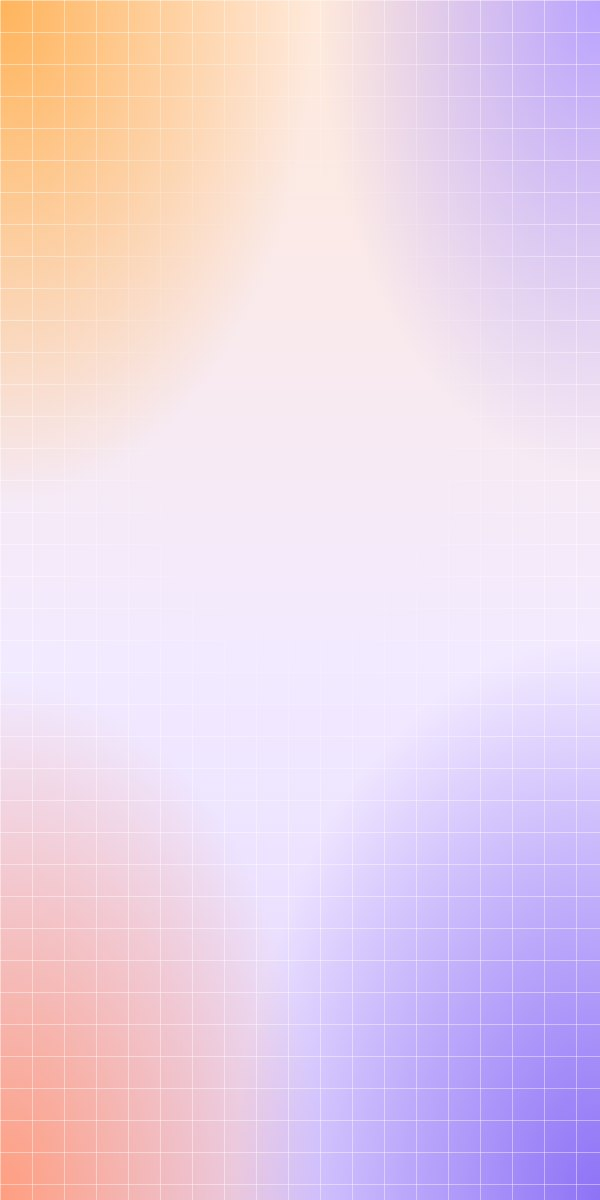
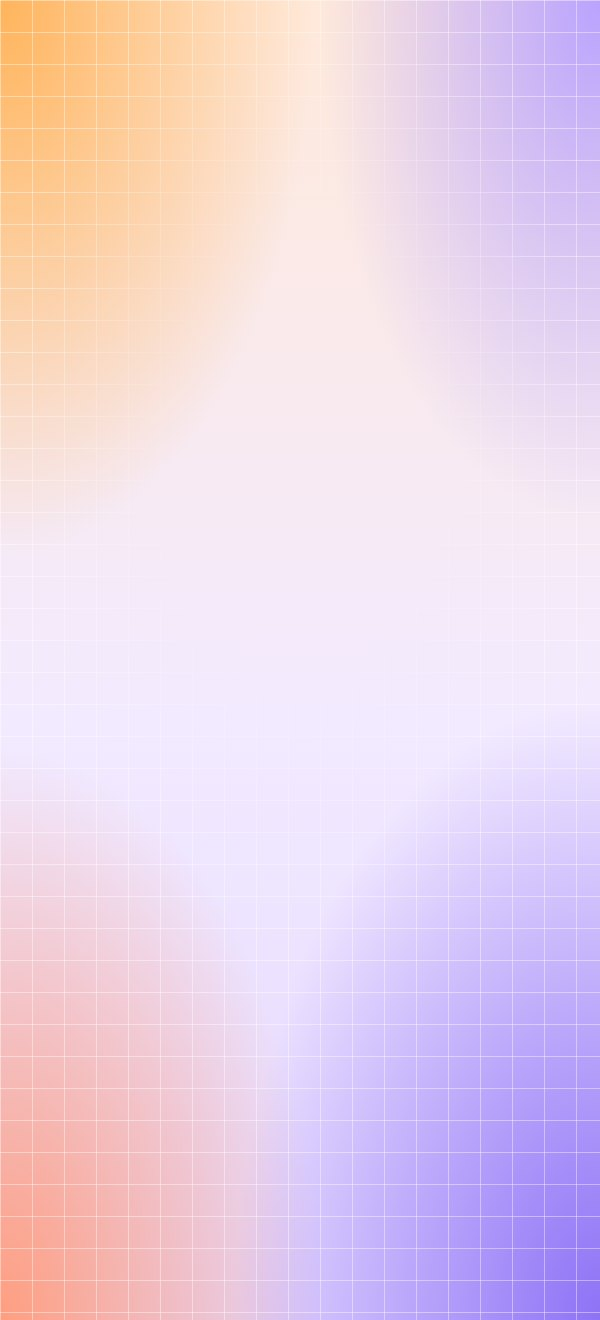
Newsletter : fond de tête rallongé ; page : modes sur plaque blanche
- Newsletter : le bandeau de tête mesure 1 228 px depuis l'ajout de la
  mention « 5 licences offertes », mais son fond n'en faisait que 1 200 :
  la couleur de repli formait une bande sous les trois parcours. Fond
  porté à 1 320 px (et le rectangle VML d'Outlook avec).
- Page organismes : la section « Trois modes pour s'entraîner » est posée
  sur une plaque blanche, ses cartes claires en lilas pâle comme dans la
  carte blanche de la newsletter. Le pied de l'écran d'examen reste sur
  une ligne jusqu'à 360 px.

Claude-Session: https://claude.ai/code/session_01FeZWDqfAndBDqFz8uAYmmt

Changed region(s): [[0.78, 0.9867, 1.0, 1.0]]

diff --git a/travaux/page-civicap/index.html b/travaux/page-civicap/index.html
@@ -217,7 +217,9 @@ h1 em,h2 em{font-family:var(--serif);font-style:italic;font-weight:400;font-size
 .paiement{margin-top:11px;display:flex;justify-content:center;gap:14px;font:500 11px/1 var(--corps);color:var(--pale)}
 .paiement span{display:inline-flex;align-items:center;gap:5px}
 
-/* ---------- les trois modes ---------- */
+/* ---------- les trois modes, sur une plaque blanche ---------- */
+.plaque{border-radius:36px;background:#fff;padding:clamp(32px,5.5vw,72px) clamp(16px,4.5vw,64px);box-shadow:0 40px 90px -60px rgba(46,16,101,.45)}
+.plaque .b:not(.b-grand){background:#F7F5FC;border-color:transparent;box-shadow:none}
 .modes-tete{display:grid;grid-template-columns:minmax(0,1fr) minmax(0,1.05fr);gap:clamp(32px,5vw,64px);align-items:center}
 .modes-tete .titre-2{margin-top:18px}
 .modes-tete p{margin-top:20px;max-width:460px;font-size:18px;color:var(--texte)}
@@ -250,8 +252,8 @@ h1 em,h2 em{font-family:var(--serif);font-style:italic;font-weight:400;font-size
 .opt.sel{border-color:#C4B5FD;background:#FAF7FF;color:var(--ink)}
 .opt.sel .rad{border:4.5px solid var(--violet-2)}
 .exam-pied{display:flex;align-items:center;justify-content:space-between;gap:10px;padding:14px 16px 16px}
-.drap{display:inline-flex;align-items:center;gap:7px;padding:8px 13px 8px 10px;border-radius:999px;border:1px solid #F5E2A8;background:#FFFBEB;color:#78350F;font:600 12px/1 var(--corps)}
-.suivant{display:inline-flex;align-items:center;gap:6px;color:var(--violet);font:600 12.5px/1 var(--corps)}
+.drap{display:inline-flex;align-items:center;gap:7px;padding:8px 13px 8px 10px;white-space:nowrap;border-radius:999px;border:1px solid #F5E2A8;background:#FFFBEB;color:#78350F;font:600 12px/1 var(--corps)}
+.suivant{display:inline-flex;align-items:center;gap:6px;color:var(--violet);font:600 12.5px/1 var(--corps);white-space:nowrap}
 .choix{margin-top:10px;display:grid;grid-template-columns:repeat(3,1fr);gap:8px}
 .choix span{display:grid;place-items:center;height:64px;border-radius:14px;border:1px solid #E9E5F2;color:var(--doux);font:600 26px/1 var(--sans);letter-spacing:-.03em}
 .choix .on{border-color:var(--violet-2);background:#FAF7FF;color:var(--violet);box-shadow:0 0 0 3px rgba(124,58,237,.12)}
@@ -382,11 +384,14 @@ h1 em,h2 em{font-family:var(--serif);font-style:italic;font-weight:400;font-size
   .resultat{left:18px;right:auto}
   .ln{grid-template-columns:minmax(0,1fr) minmax(0,1.25fr) auto;column-gap:10px}
   .st{padding:5px 8px;font-size:10.5px}
+  .exam-pied{padding:12px 12px 14px}
+  .drap{padding:7px 10px 7px 8px;font-size:11.5px}
+  .suivant{font-size:12px}
   .chiffre{padding:16px 12px 15px;border-radius:18px}
   .chiffre .u{font-size:9.5px;letter-spacing:.07em}
   .tuiles{grid-template-columns:minmax(0,1fr)}
   .tuiles li,.tuiles li:nth-child(n+4){grid-column:auto;flex-direction:row;align-items:center;gap:14px;padding:14px 16px}
-  .bande,.nuit{border-radius:28px}
+  .bande,.nuit,.plaque{border-radius:28px}
   .peines li{grid-template-columns:44px minmax(0,1fr);gap:14px;padding:18px}
   .peines .no{height:44px;border-radius:13px}
   .visuel{min-height:0;padding:28px 18px}
@@ -563,6 +568,7 @@ h1 em,h2 em{font-family:var(--serif);font-style:italic;font-weight:400;font-size
 
   <section class="section" id="modes">
     <div class="wrap">
+      <div class="plaque">
       <div class="modes-tete">
         <div>
           <span class="pastille">Côté stagiaire</span>
@@ -618,6 +624,7 @@ h1 em,h2 em{font-family:var(--serif);font-style:italic;font-weight:400;font-size
           </div>
           <div class="txt"><h3>Révision par thème</h3><p>Fiches de révision, cartes mémoire à répétition espacée et entraînement par thème pour cibler les points faibles.</p></div>
         </article>
+      </div>
       </div>
     </div>
   </section>

diff --git a/travaux/newsletter-civicap/email.html b/travaux/newsletter-civicap/email.html
@@ -54,7 +54,7 @@
   <tr><td class="hero" background="img/fond-hero.jpg" bgcolor="#F1E6F8" valign="top"
           style="background-color:#F1E6F8;background-image:url('img/fond-hero.jpg');background-repeat:no-repeat;background-position:center top;background-size:600px auto;border-radius:30px;padding:28px 28px 30px;">
     <!--[if gte mso 9]>
-    <v:rect xmlns:v="urn:schemas-microsoft-com:vml" fill="true" stroke="false" style="width:600px;height:1200px;">
+    <v:rect xmlns:v="urn:schemas-microsoft-com:vml" fill="true" stroke="false" style="width:600px;height:1320px;">
     <v:fill type="frame" src="img/fond-hero.jpg" color="#F1E6F8" />
     <v:textbox style="mso-fit-shape-to-text:true" inset="28px,28px,28px,30px">
     <![endif]-->

diff --git a/tools/illustrations-civicap.py b/tools/illustrations-civicap.py
@@ -135,8 +135,12 @@ def glyphe(cle, taille=22, epaisseur=4.4):
 
 
 def fond_hero():
-    """Le fond du bandeau de tête : le dégradé de marque, quadrillé, plus dense sur les bords."""
-    w, h = 600, 1200
+    """Le fond du bandeau de tête : le dégradé de marque, quadrillé, plus dense sur les bords.
+
+    Plus haut que le bandeau (1 228 px sur ordinateur) : s'il était plus court, la couleur de
+    repli apparaîtrait en bande sous les trois parcours. Garder de la marge.
+    """
+    w, h = 600, 1320
     css = """
 .d{position:absolute;inset:0;background:""" + DEGRADE + """}
 .g{position:absolute;inset:0;""" + GRILLE + """;
